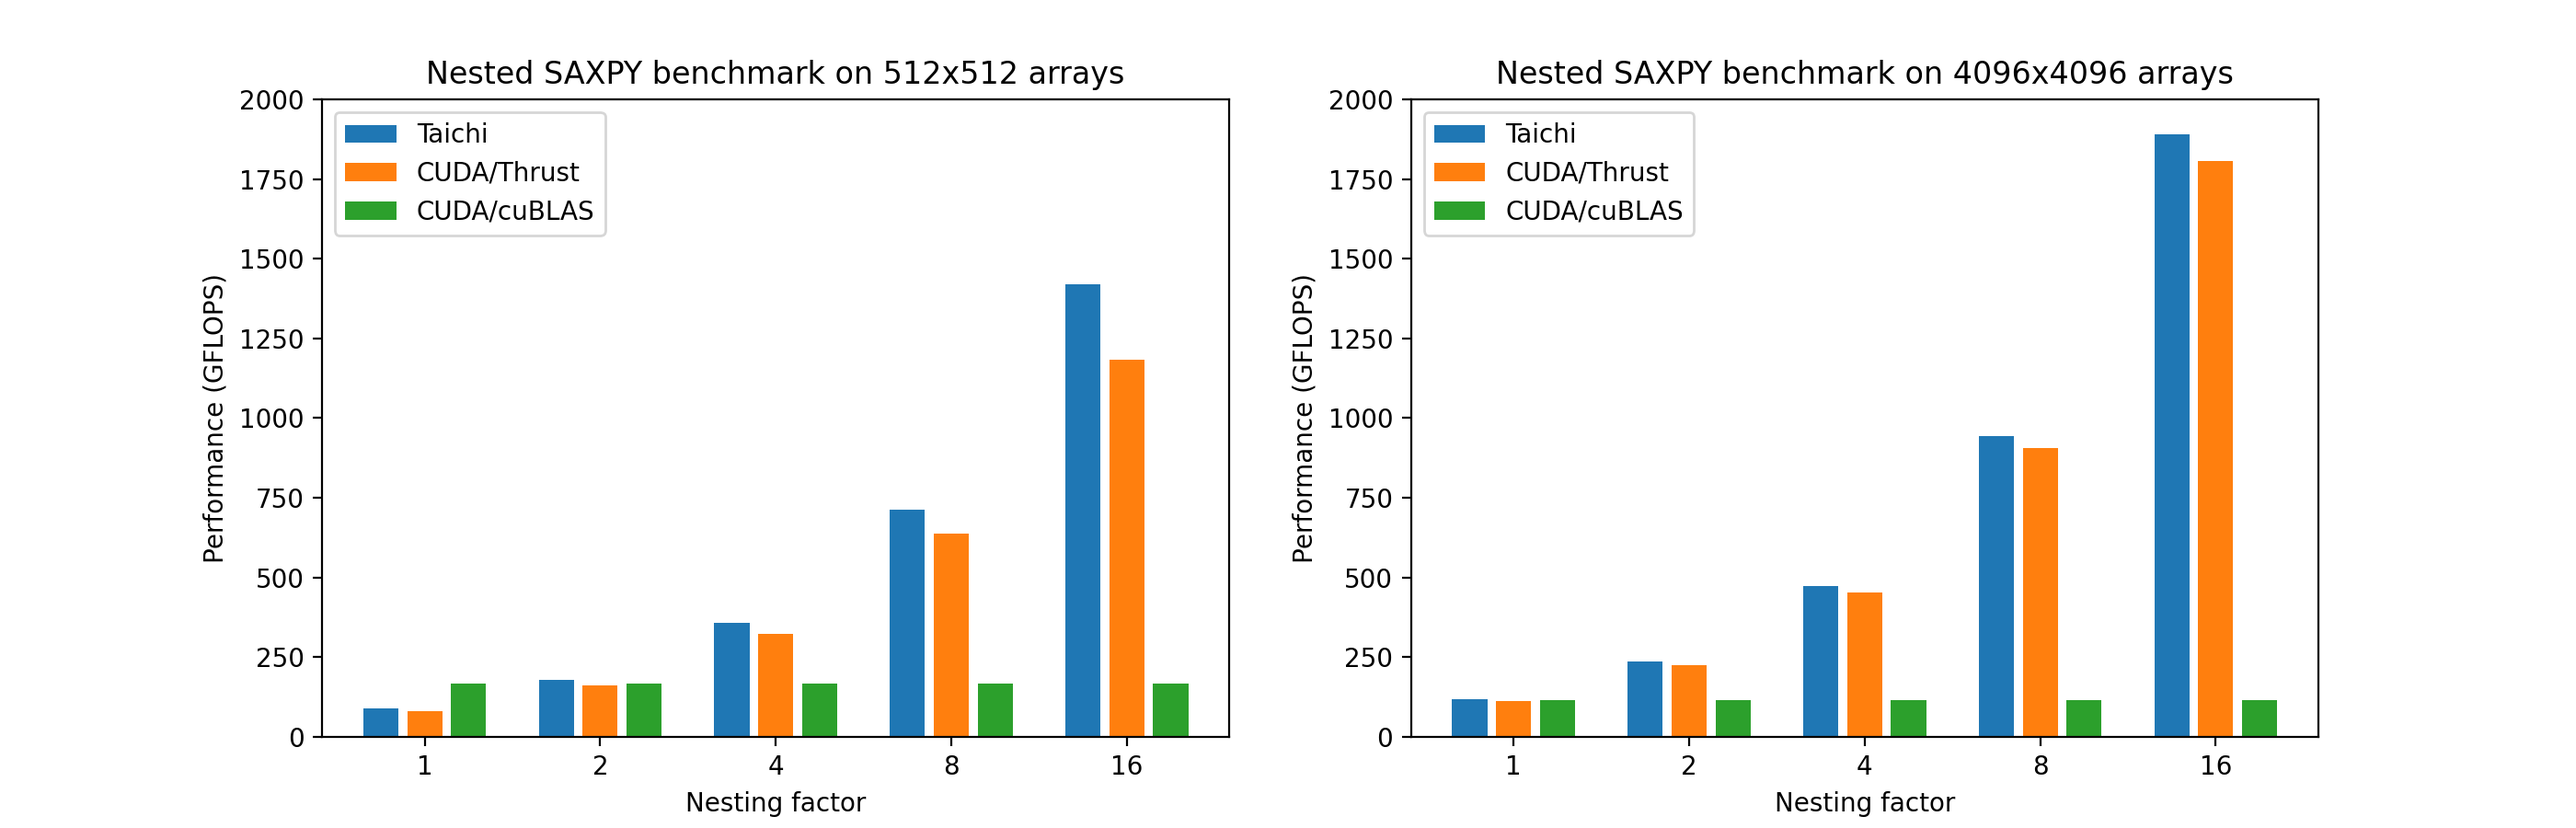
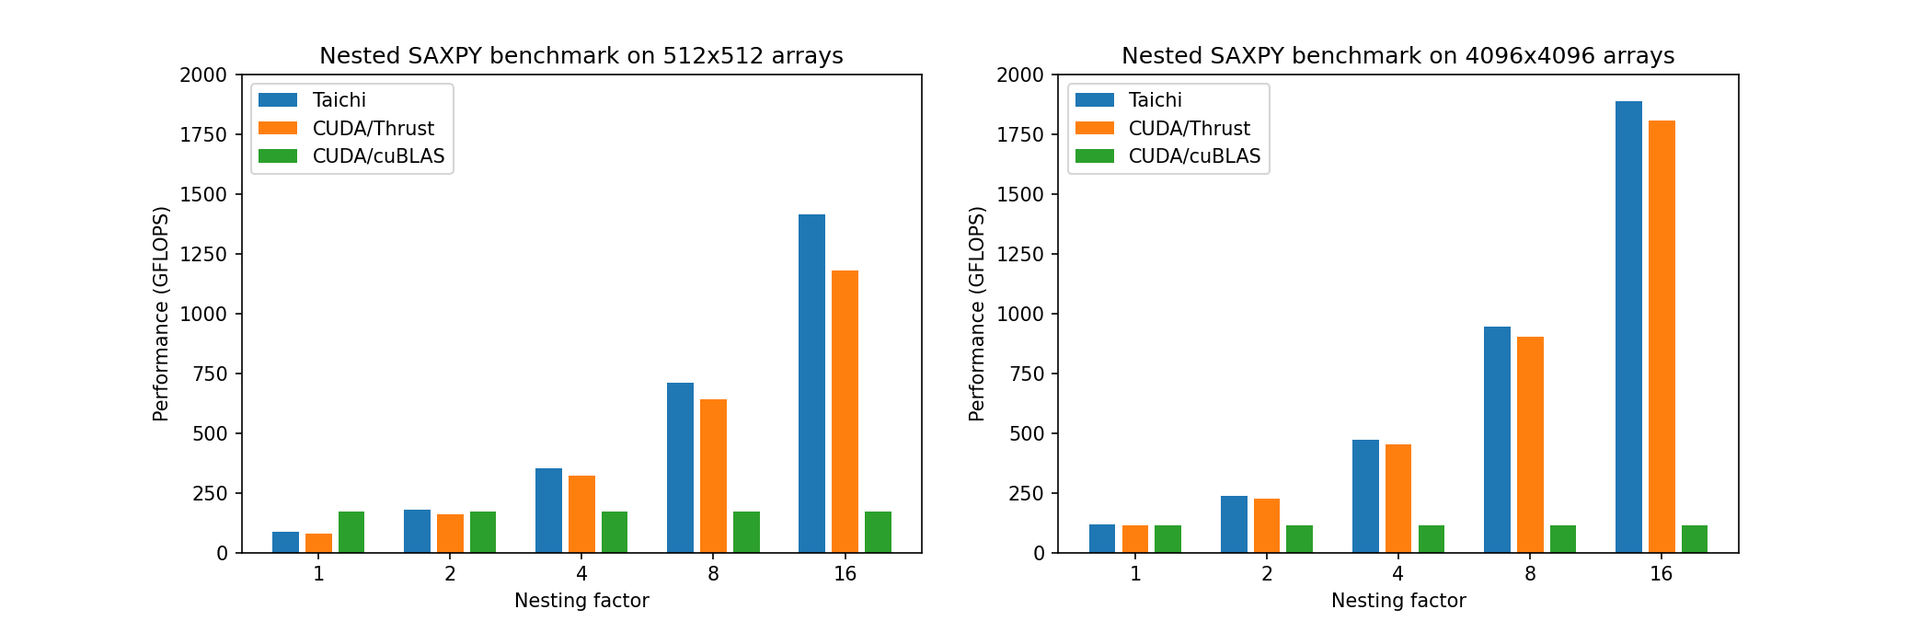
Update figures

diff --git a/saxpy/plot_benchmark.py b/saxpy/plot_benchmark.py
@@ -45,7 +45,6 @@ def extract_nested(result_dict, N=4096):
 
 
 def plot_compute(results):
-    plt.figure(figsize=(8, 4.5))
     fig, ax = plt.subplots()
 
     dims, y = extract_gflops(results['taichi'])
@@ -75,13 +74,10 @@ def plot_compute(results):
     plt.axhline(y = 760 / 6.0, color='grey', linestyle = 'dashed')
     plt.text(11, 770/6.0, 'DRAM Bandwidth=760GB/s')
     ax.set_title("SAXPY benchmark on 2D arrays")
-    plt.savefig("fig/compute_bench.png", dpi=100)
+    plt.savefig("fig/compute_bench.png", dpi=150)
 
 def plot_nested(results, N=4096):
-    plt.figure(figsize=(7,4.5))
-    fig, ax_arr = plt.subplots(2, 1)
-
-
+    plt.figure()
     _, y = extract_nested(results['taichi'], N)
     bar_pos = [i*4 for i in range(len(y))]
     plt.bar(bar_pos, y)
@@ -102,7 +98,7 @@ def plot_nested(results, N=4096):
     plt.xlabel("Nesting factor")
     plt.ylabel("Performance (GFLOPS)")
     plt.title("Nested saxpy compute benchmark on {}x{} arrays".format(N, N))
-    plt.savefig("fig/nesting_bench_{}.png".format(N), dpi=100)
+    plt.savefig("fig/nesting_bench_{}.png".format(N), dpi=150)
 
 def plot_nested_all_in_one(results, N_arr=[512, 4096]):
     fig, ax_arr = plt.subplots(1, len(N_arr), figsize=(14, 4.5))
@@ -129,7 +125,7 @@ def plot_nested_all_in_one(results, N_arr=[512, 4096]):
         ax.set_xlabel("Nesting factor")
         ax.set_ylabel("Performance (GFLOPS)")
         ax.title.set_text("Nested SAXPY benchmark on {}x{} arrays".format(N, N))
-    plt.savefig("fig/nesting_bench_all.png", dpi=100)
+    plt.savefig("fig/nesting_bench_all.png", dpi=150)
 
 if __name__ == '__main__':
     try:
